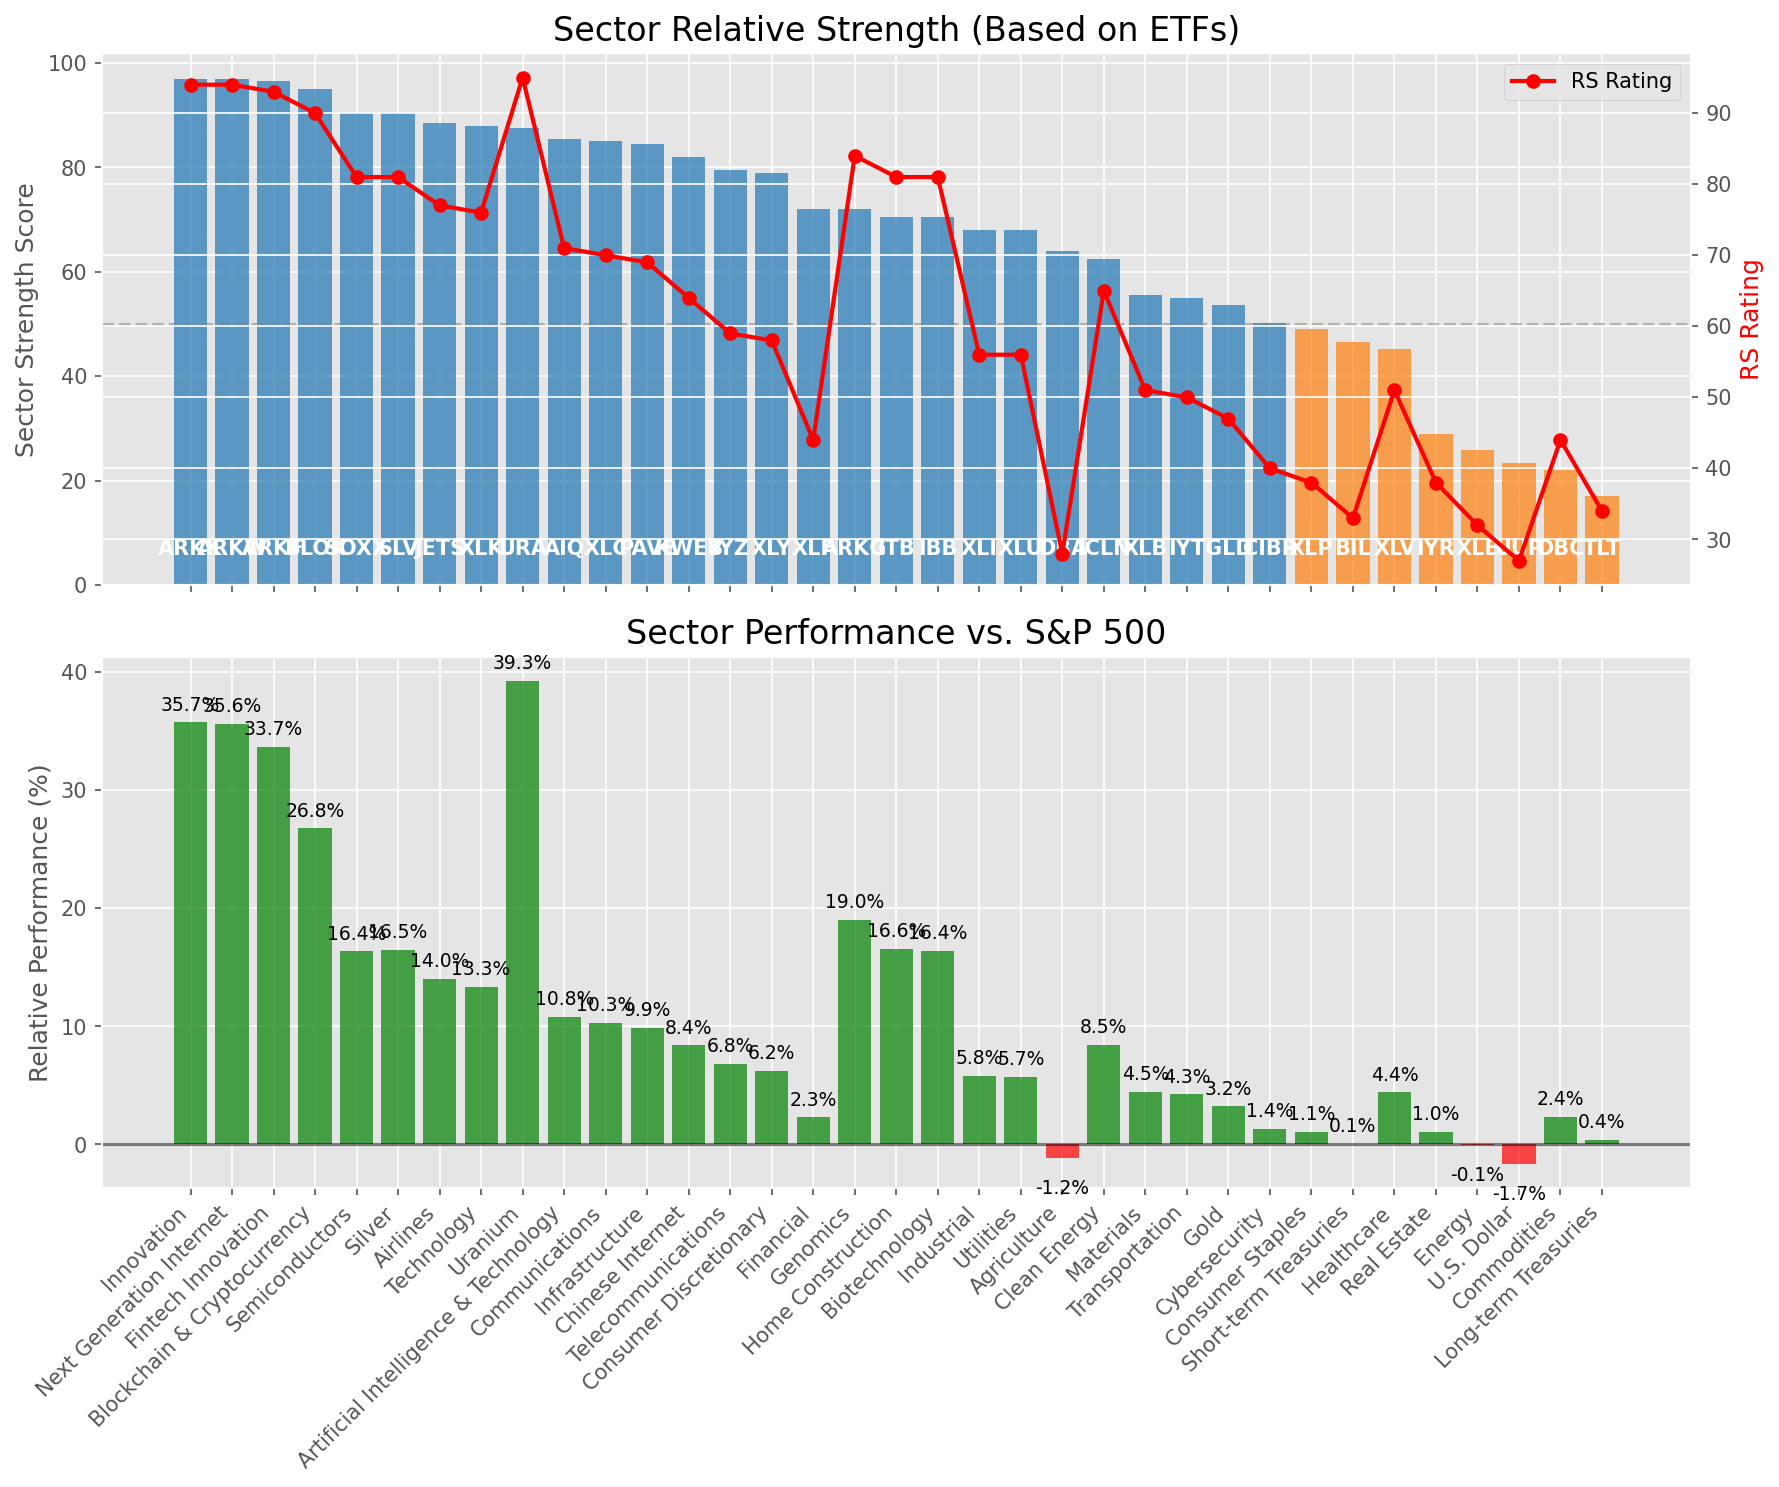
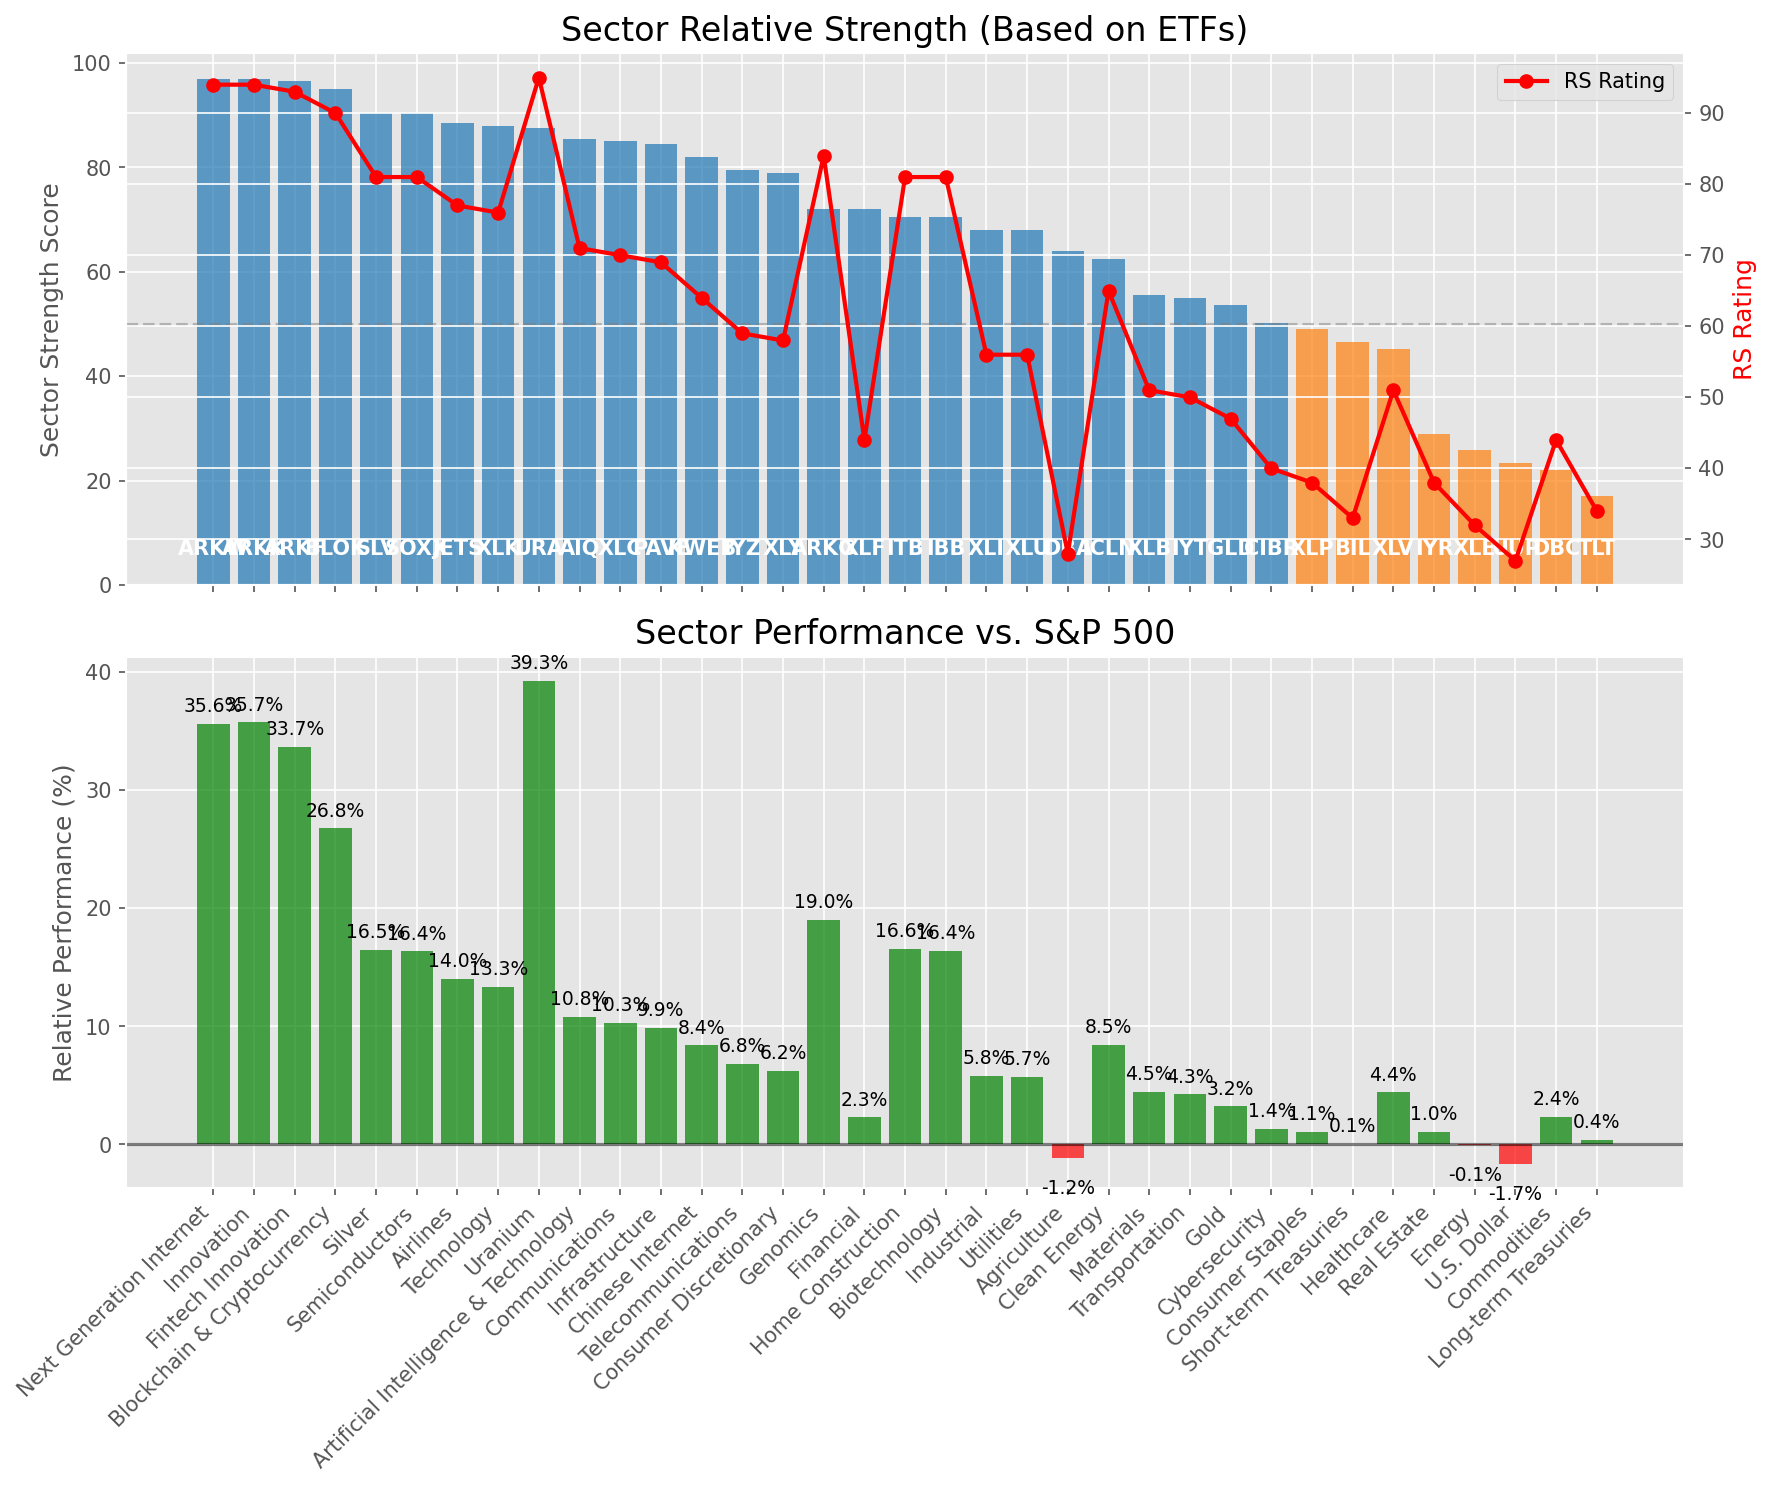
Add market report for 2025-08-17

diff --git a/oneil_relative_strength_report_2025-08-17.md b/oneil_relative_strength_report_2025-08-17.md
@@ -49,12 +49,12 @@ Based on William O'Neil's Relative Strength Methodology
 
 | ETF | Strength | RS Rating | Performance | Above Key MAs | Trend | Sector |
 |-----|----------|-----------|-------------|--------------|-------|--------|
-| [ARKK](https://www.tradingview.com/chart/?symbol=ARKK) | 97.0 | 94.0 | 35.75% | 10d ✓, 50d ✓, 200d ✓ | ↗ | Innovation |
 | [ARKW](https://www.tradingview.com/chart/?symbol=ARKW) | 97.0 | 94.0 | 35.63% | 10d ✓, 50d ✓, 200d ✓ | ↗ | Next Generation Internet |
+| [ARKK](https://www.tradingview.com/chart/?symbol=ARKK) | 97.0 | 94.0 | 35.75% | 10d ✓, 50d ✓, 200d ✓ | ↗ | Innovation |
 | [ARKF](https://www.tradingview.com/chart/?symbol=ARKF) | 96.5 | 93.0 | 33.68% | 10d ✓, 50d ✓, 200d ✓ | ↗ | Fintech Innovation |
 | [BLOK](https://www.tradingview.com/chart/?symbol=BLOK) | 95.0 | 90.0 | 26.78% | 10d ✓, 50d ✓, 200d ✓ | ↗ | Blockchain & Cryptocurrency |
-| [SOXX](https://www.tradingview.com/chart/?symbol=SOXX) | 90.5 | 81.0 | 16.36% | 10d ✓, 50d ✓, 200d ✓ | ↗ | Semiconductors |
 | [SLV](https://www.tradingview.com/chart/?symbol=SLV) | 90.5 | 81.0 | 16.51% | 10d ✓, 50d ✓, 200d ✓ | ↗ | Silver |
+| [SOXX](https://www.tradingview.com/chart/?symbol=SOXX) | 90.5 | 81.0 | 16.36% | 10d ✓, 50d ✓, 200d ✓ | ↗ | Semiconductors |
 | [JETS](https://www.tradingview.com/chart/?symbol=JETS) | 88.5 | 77.0 | 14.04% | 10d ✓, 50d ✓, 200d ✓ | ↗ | Airlines |
 | [XLK](https://www.tradingview.com/chart/?symbol=XLK) | 88.0 | 76.0 | 13.33% | 10d ✓, 50d ✓, 200d ✓ | ↗ | Technology |
 | [URA](https://www.tradingview.com/chart/?symbol=URA) | 87.6 | 95.0 | 39.27% | 10d ✗, 50d ✓, 200d ✓ | ↗ | Uranium |
@@ -64,8 +64,8 @@ Based on William O'Neil's Relative Strength Methodology
 | [KWEB](https://www.tradingview.com/chart/?symbol=KWEB) | 82.0 | 64.0 | 8.40% | 10d ✓, 50d ✓, 200d ✓ | ↗ | Chinese Internet |
 | [IYZ](https://www.tradingview.com/chart/?symbol=IYZ) | 79.5 | 59.0 | 6.80% | 10d ✓, 50d ✓, 200d ✓ | ↗ | Telecommunications |
 | [XLY](https://www.tradingview.com/chart/?symbol=XLY) | 79.0 | 58.0 | 6.22% | 10d ✓, 50d ✓, 200d ✓ | ↗ | Consumer Discretionary |
-| [XLF](https://www.tradingview.com/chart/?symbol=XLF) | 72.0 | 44.0 | 2.30% | 10d ✓, 50d ✓, 200d ✓ | ↗ | Financial |
 | [ARKG](https://www.tradingview.com/chart/?symbol=ARKG) | 72.0 | 84.0 | 19.00% | 10d ✓, 50d ✓, 200d ✓ | ↘ | Genomics |
+| [XLF](https://www.tradingview.com/chart/?symbol=XLF) | 72.0 | 44.0 | 2.30% | 10d ✓, 50d ✓, 200d ✓ | ↗ | Financial |
 | [ITB](https://www.tradingview.com/chart/?symbol=ITB) | 70.5 | 81.0 | 16.56% | 10d ✓, 50d ✓, 200d ✓ | ↘ | Home Construction |
 | [IBB](https://www.tradingview.com/chart/?symbol=IBB) | 70.5 | 81.0 | 16.37% | 10d ✓, 50d ✓, 200d ✓ | ↘ | Biotechnology |
 | [XLI](https://www.tradingview.com/chart/?symbol=XLI) | 68.1 | 56.0 | 5.82% | 10d ✗, 50d ✓, 200d ✓ | ↗ | Industrial |
@@ -98,9 +98,9 @@ This table shows the relative strength metrics for different market sectors base
 
 ### **Current Sector Leadership**
 
-The current market leadership is coming from the following sectors: **Innovation, Next Generation Internet, Fintech Innovation**.
+The current market leadership is coming from the following sectors: **Next Generation Internet, Innovation, Fintech Innovation**.
 
-The **Innovation** sector (represented by **ARKK**) is showing particularly strong relative strength with an RS rating of 94.0 and performance of 35.75% vs. the S&P 500. This sector is trading above its 10-day, 50-day, 200-day moving average(s). Investors should consider focusing on high RS stocks within these leading sectors for potential outperformance.
+The **Next Generation Internet** sector (represented by **ARKW**) is showing particularly strong relative strength with an RS rating of 94.0 and performance of 35.63% vs. the S&P 500. This sector is trading above its 10-day, 50-day, 200-day moving average(s). Investors should consider focusing on high RS stocks within these leading sectors for potential outperformance.
 
 ---
 
@@ -110,34 +110,34 @@ The following 55 stocks show exceptional relative strength:
 
 | RS Rating | Buy Score | Current Price | Chart | Name | Ticker |
 |-----------|-----------|---------------|-------|------|--------|
-| 100 | 100 | $114.17 | [Chart](https://www.tradingview.com/chart/?symbol=HOOD) | Robinhood Markets, Inc. Class A Common Stock | HOOD |
 | 100 | 100 | $68.50 | [Chart](https://www.tradingview.com/chart/?symbol=KTOS) | Kratos Defense & Security Solutions, Inc. | KTOS |
+| 100 | 100 | $114.17 | [Chart](https://www.tradingview.com/chart/?symbol=HOOD) | Robinhood Markets, Inc. Class A Common Stock | HOOD |
 | 100 | 100 | $75.03 | [Chart](https://www.tradingview.com/chart/?symbol=MP) | MP Materials Corp. | MP |
 | 100 | 100 | $44.27 | [Chart](https://www.tradingview.com/chart/?symbol=RKLB) | Rocket Lab Corporation Common Stock | RKLB |
 | 100 | 100 | $71.62 | [Chart](https://www.tradingview.com/chart/?symbol=NBIS) | Nebius Group N.V. Class A Ordinary Shares | NBIS |
-| 99 | 100 | $174.25 | [Chart](https://www.tradingview.com/chart/?symbol=FUTU) | Futu Holdings Limited American Depositary Shares | FUTU |
 | 99 | 100 | $97.61 | [Chart](https://www.tradingview.com/chart/?symbol=RYTM) | Rhythm Pharmaceuticals, Inc. Common Stock | RYTM |
+| 99 | 100 | $174.25 | [Chart](https://www.tradingview.com/chart/?symbol=FUTU) | Futu Holdings Limited American Depositary Shares | FUTU |
 | 98 | 100 | $25.55 | [Chart](https://www.tradingview.com/chart/?symbol=TME) | Tencent Music Entertainment Group American Depositary Shares, each representing two Class A Ordinary Shares | TME |
 | 97 | 100 | $191.27 | [Chart](https://www.tradingview.com/chart/?symbol=COOP) | Mr. Cooper Group Inc. Common Stock | COOP |
 | 97 | 100 | $85.43 | [Chart](https://www.tradingview.com/chart/?symbol=LIF) | Life360, Inc. Common Stock | LIF |
-| 96 | 100 | $58.88 | [Chart](https://www.tradingview.com/chart/?symbol=GH) | Guardant Health, Inc. Common Stock | GH |
 | 96 | 100 | $100.70 | [Chart](https://www.tradingview.com/chart/?symbol=EBAY) | eBay Inc | EBAY |
 | 96 | 100 | $25.33 | [Chart](https://www.tradingview.com/chart/?symbol=ACAD) | Acadia Pharmaceuticals Inc. | ACAD |
+| 96 | 100 | $58.88 | [Chart](https://www.tradingview.com/chart/?symbol=GH) | Guardant Health, Inc. Common Stock | GH |
 | 96 | 100 | $66.70 | [Chart](https://www.tradingview.com/chart/?symbol=MRCY) | Mercury Systems Inc. | MRCY |
 | 95 | 100 | $31.74 | [Chart](https://www.tradingview.com/chart/?symbol=PAAS) | Pan American Silver Corp. | PAAS |
-| 94 | 100 | $57.15 | [Chart](https://www.tradingview.com/chart/?symbol=BTI) | British American Tobacco p.l.c. American Depositary Shares, American Depositary Shares, each representing one Ordinary Share | BTI |
-| 94 | 100 | $75.02 | [Chart](https://www.tradingview.com/chart/?symbol=WNS) | WNS (Holdings) Limited | WNS |
 | 94 | 100 | $54.01 | [Chart](https://www.tradingview.com/chart/?symbol=SIL) | Global X Silver Miners ETF (NEW) | SIL |
-| 94 | 100 | $159.70 | [Chart](https://www.tradingview.com/chart/?symbol=ARKW) | ARK Next Generation Internet ETF | ARKW |
+| 94 | 100 | $75.02 | [Chart](https://www.tradingview.com/chart/?symbol=WNS) | WNS (Holdings) Limited | WNS |
+| 94 | 100 | $57.15 | [Chart](https://www.tradingview.com/chart/?symbol=BTI) | British American Tobacco p.l.c. American Depositary Shares, American Depositary Shares, each representing one Ordinary Share | BTI |
 | 94 | 100 | $25.95 | [Chart](https://www.tradingview.com/chart/?symbol=LQDA) | Liquidia Corporation Common Stock | LQDA |
+| 94 | 100 | $159.70 | [Chart](https://www.tradingview.com/chart/?symbol=ARKW) | ARK Next Generation Internet ETF | ARKW |
 | 94 | 100 | $98.58 | [Chart](https://www.tradingview.com/chart/?symbol=TPB) | Turning Point Brands, Inc. | TPB |
 | 93 | 100 | $30.55 | [Chart](https://www.tradingview.com/chart/?symbol=OR) | OR Royalties Inc. | OR |
 | 93 | 100 | $122.34 | [Chart](https://www.tradingview.com/chart/?symbol=PPLT) | abrdn Physical Platinum Shares ETF | PPLT |
-| 93 | 100 | $54.52 | [Chart](https://www.tradingview.com/chart/?symbol=ARKF) | ARK Fintech Innovation ETF | ARKF |
 | 93 | 100 | $31.00 | [Chart](https://www.tradingview.com/chart/?symbol=SRAD) | Sportradar Group AG Class A Ordinary Shares | SRAD |
+| 93 | 100 | $54.52 | [Chart](https://www.tradingview.com/chart/?symbol=ARKF) | ARK Fintech Innovation ETF | ARKF |
+| 92 | 100 | $26.11 | [Chart](https://www.tradingview.com/chart/?symbol=TFPM) | Triple Flag Precious Metals Corp. | TFPM |
 | 92 | 100 | $36.56 | [Chart](https://www.tradingview.com/chart/?symbol=DB) | Deutsche Bank Aktiengesellschaft | DB |
 | 92 | 100 | $60.72 | [Chart](https://www.tradingview.com/chart/?symbol=VIK) | Viking Holdings Ltd | VIK |
-| 92 | 100 | $26.11 | [Chart](https://www.tradingview.com/chart/?symbol=TFPM) | Triple Flag Precious Metals Corp. | TFPM |
 | 91 | 100 | $23.06 | [Chart](https://www.tradingview.com/chart/?symbol=MAG) | MAG Silver Corp. | MAG |
 | 90 | 100 | $38.71 | [Chart](https://www.tradingview.com/chart/?symbol=AS) | Amer Sports, Inc. | AS |
 | 89 | 100 | $118.25 | [Chart](https://www.tradingview.com/chart/?symbol=SXT) | Sensient Technology Corporation | SXT |
@@ -153,16 +153,16 @@ The following 55 stocks show exceptional relative strength:
 | 83 | 96 | $49.53 | [Chart](https://www.tradingview.com/chart/?symbol=CIB) | Grupo Cibest S.A. American Depositary Shares (each representing four (4) Preferred Shares) | CIB |
 | 83 | 96 | $118.37 | [Chart](https://www.tradingview.com/chart/?symbol=GILD) | Gilead Sciences Inc | GILD |
 | 82 | 96 | $20.27 | [Chart](https://www.tradingview.com/chart/?symbol=BCS) | Barclays PLC | BCS |
-| 85 | 95 | $48.88 | [Chart](https://www.tradingview.com/chart/?symbol=FAST) | Fastenal Co | FAST |
 | 85 | 95 | $438.68 | [Chart](https://www.tradingview.com/chart/?symbol=APP) | Applovin Corporation Class A Common Stock | APP |
+| 85 | 95 | $48.88 | [Chart](https://www.tradingview.com/chart/?symbol=FAST) | Fastenal Co | FAST |
 | 83 | 95 | $15.90 | [Chart](https://www.tradingview.com/chart/?symbol=MUFG) | Mitsubishi UFJ Financial Group, Inc. | MUFG |
 | 82 | 95 | $48.84 | [Chart](https://www.tradingview.com/chart/?symbol=EWP) | iShares MSCI Spain ETF | EWP |
 | 82 | 95 | $188.85 | [Chart](https://www.tradingview.com/chart/?symbol=TKO) | TKO Group Holdings, Inc. | TKO |
 | 84 | 94 | $31.36 | [Chart](https://www.tradingview.com/chart/?symbol=IIIV) | i3 Verticals, Inc. Class A Common Stock | IIIV |
 | 83 | 94 | $24.88 | [Chart](https://www.tradingview.com/chart/?symbol=ING) | ING Groep N.V. American Depositary Shares | ING |
 | 80 | 94 | $40.45 | [Chart](https://www.tradingview.com/chart/?symbol=AHR) | American Healthcare REIT, Inc. | AHR |
-| 83 | 93 | $12.90 | [Chart](https://www.tradingview.com/chart/?symbol=PSLV) | Sprott Physical Silver Trust | PSLV |
 | 83 | 93 | $16.07 | [Chart](https://www.tradingview.com/chart/?symbol=EZPW) | Ezcorp Inc | EZPW |
+| 83 | 93 | $12.90 | [Chart](https://www.tradingview.com/chart/?symbol=PSLV) | Sprott Physical Silver Trust | PSLV |
 | 80 | 93 | $28.74 | [Chart](https://www.tradingview.com/chart/?symbol=SONY) | Sony Group Corporation American Depositary Shares (Each Representing One Share of Dollar Validated Common Stock) | SONY |
 | 80 | 92 | $35.28 | [Chart](https://www.tradingview.com/chart/?symbol=APG) | APi Group Corporation | APG |
 
@@ -182,10 +182,10 @@ The following 81 stocks show deteriorating relative strength:
 | 3 | 100 | $23.19 | [Chart](https://www.tradingview.com/chart/?symbol=ZSL) | ProShares UltraShort Silver | ZSL |
 | 5 | 100 | $20.69 | [Chart](https://www.tradingview.com/chart/?symbol=GAP) | The Gap, Inc. | GAP |
 | 6 | 100 | $12.48 | [Chart](https://www.tradingview.com/chart/?symbol=ARDT) | Ardent Health, Inc. | ARDT |
-| 7 | 100 | $77.26 | [Chart](https://www.tradingview.com/chart/?symbol=ESTC) | Elastic N.V. | ESTC |
-| 7 | 100 | $39.47 | [Chart](https://www.tradingview.com/chart/?symbol=SDOW) | ProShares UltraPro Short Dow 30 | SDOW |
 | 7 | 100 | $28.68 | [Chart](https://www.tradingview.com/chart/?symbol=BBWI) | Bath & Body Works, Inc. | BBWI |
+| 7 | 100 | $77.26 | [Chart](https://www.tradingview.com/chart/?symbol=ESTC) | Elastic N.V. | ESTC |
 | 7 | 100 | $25.33 | [Chart](https://www.tradingview.com/chart/?symbol=CZR) | Caesars Entertainment, Inc. Common Stock | CZR |
+| 7 | 100 | $39.47 | [Chart](https://www.tradingview.com/chart/?symbol=SDOW) | ProShares UltraPro Short Dow 30 | SDOW |
 | 7 | 100 | $16.80 | [Chart](https://www.tradingview.com/chart/?symbol=S) | SentinelOne, Inc. | S |
 | 10 | 100 | $16.67 | [Chart](https://www.tradingview.com/chart/?symbol=BTAL) | AGF U.S. Market Neutral Anti-Beta Fund | BTAL |
 | 13 | 99 | $16.50 | [Chart](https://www.tradingview.com/chart/?symbol=CTO) | CTO Realty Growth, Inc. | CTO |
@@ -208,8 +208,8 @@ The following 81 stocks show deteriorating relative strength:
 | 17 | 93 | $25.43 | [Chart](https://www.tradingview.com/chart/?symbol=FCPT) | Four Corners Property Trust, Inc. | FCPT |
 | 18 | 93 | $18.06 | [Chart](https://www.tradingview.com/chart/?symbol=EBF) | Ennis, Inc. | EBF |
 | 17 | 92 | $12.16 | [Chart](https://www.tradingview.com/chart/?symbol=PMT) | PennyMac Mortgage Investment Trust | PMT |
-| 15 | 91 | $42.69 | [Chart](https://www.tradingview.com/chart/?symbol=SW) | Smurfit Westrock plc | SW |
 | 15 | 91 | $91.49 | [Chart](https://www.tradingview.com/chart/?symbol=IRM) | Iron Mountain Inc. | IRM |
+| 15 | 91 | $42.69 | [Chart](https://www.tradingview.com/chart/?symbol=SW) | Smurfit Westrock plc | SW |
 | 16 | 91 | $282.94 | [Chart](https://www.tradingview.com/chart/?symbol=PSA) | Public Storage | PSA |
 | 20 | 91 | $10.08 | [Chart](https://www.tradingview.com/chart/?symbol=NMZ) | Nuveen Municipal High Income Opportunity Fund | NMZ |
 | 14 | 90 | $34.78 | [Chart](https://www.tradingview.com/chart/?symbol=AMH) | AMERICAN HOMES 4 RENT | AMH |
@@ -227,8 +227,8 @@ The following 81 stocks show deteriorating relative strength:
 | 20 | 85 | $154.36 | [Chart](https://www.tradingview.com/chart/?symbol=PG) | Procter & Gamble Company | PG |
 | 21 | 85 | $162.94 | [Chart](https://www.tradingview.com/chart/?symbol=EGP) | EastGroup Properties Inc. | EGP |
 | 22 | 85 | $48.90 | [Chart](https://www.tradingview.com/chart/?symbol=FR) | First Industrial Realty Trust, Inc. | FR |
-| 28 | 85 | $12.17 | [Chart](https://www.tradingview.com/chart/?symbol=WSR) | Whitestone REIT | WSR |
 | 28 | 85 | $13.19 | [Chart](https://www.tradingview.com/chart/?symbol=MED) | Medifast, Inc. | MED |
+| 28 | 85 | $12.17 | [Chart](https://www.tradingview.com/chart/?symbol=WSR) | Whitestone REIT | WSR |
 | 16 | 84 | $31.70 | [Chart](https://www.tradingview.com/chart/?symbol=JD) | JD.com, Inc. | JD |
 | 21 | 84 | $44.63 | [Chart](https://www.tradingview.com/chart/?symbol=EPI) | WisdomTree India Earnings Fund ETF | EPI |
 | 23 | 82 | $29.84 | [Chart](https://www.tradingview.com/chart/?symbol=CNQ) | Canadian Natural Resources Limited | CNQ |
